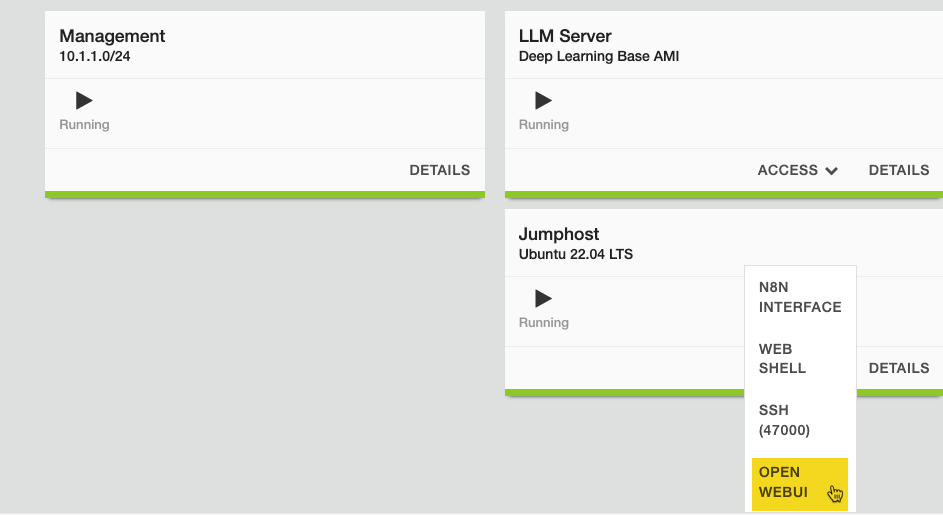
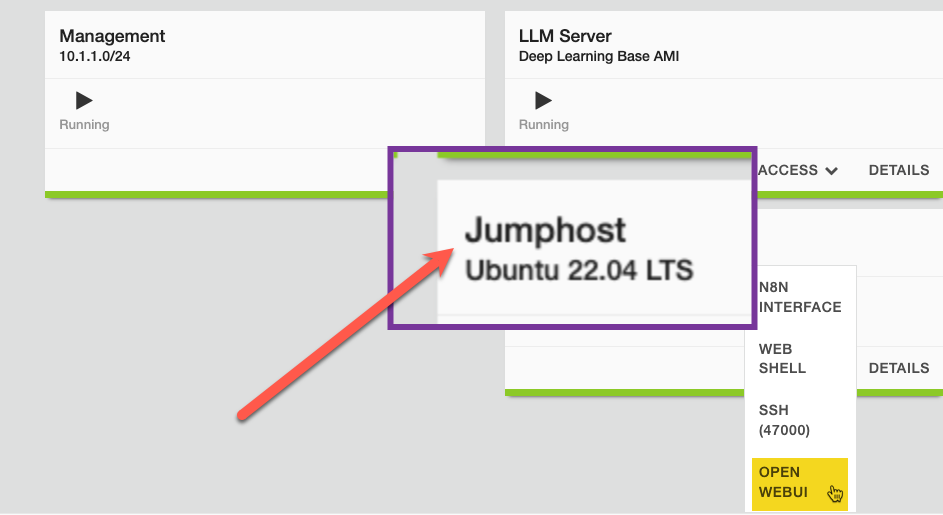
Merge pull request #11 from f5devcentral/rahm.post_labday
Post-event feedback updates

Pull request: Post-event feedback updates

Changed region(s): [[0.246, 0.2796, 0.8303, 0.8388]]

diff --git a/docs/class1/module3/lab2.rst b/docs/class1/module3/lab2.rst
@@ -28,8 +28,18 @@ Steps
 
    .. image:: images/00_n8n_Interface.png
 
-#. Enter account details and click **Next**. Make sure to use a real email address to get your license key, and
-   check your junk folder if you don't get it quickly.
+.. note::
+
+    If you get a 500 error that the target is unreachable, kill the container in the webshell and start it again
+    with the command in step 2 of the previous lab in this module.
+
+#. Enter account details and click **Next**.
+
+    .. warning::
+
+        Make sure to use a real email address to get your license key, and check your junk folder if
+        you don't get it quickly.
+
 
    .. image:: images/01_owner_account.png
 

diff --git a/docs/index.rst b/docs/index.rst
@@ -1,17 +1,17 @@
-F5 Agility Labs Getting Started Doc
-===================================
+F5 AppWorld Labs Getting Started Doc
+====================================
 
-Welcome to the |classbold| for F5 Agility |year|
+Welcome to the |classbold| for F5 AppWorld |year|
 
 .. attention::
-   The Agility team is using this repo to document our "read-the-docs" process.
+   The AppWorld team is using this repo to document our "read-the-docs" process.
 
 |repoinfo|
 
 .. note::
-   Each Agility lab is typically broken down by "Class" --> "Module" --> "Lab".
+   Each AppWorld lab is typically broken down by "Class" --> "Module" --> "Lab".
    Each section uses "toctree" to create the index and reference the content.
-   Using this template should give the contributer several getting-started
+   Using this template should give the contributor several getting-started
    RST examples.
 
 .. toctree::

diff --git a/docs/class1/module2/lab2.rst b/docs/class1/module2/lab2.rst
@@ -75,7 +75,11 @@ Jumphost and select **WEB SHELL** as shown in the image below.
     cd /root/fabric
     docker build -t fabric .
 
-4. This will take a few minutes. After the build completes, **create and run a new container**. This
+.. note::
+
+    This will take several minutes.
+
+4. After the build completes, **create and run a new container**. This
 will dump you into the bash shell of the container.
 
 .. code-block:: bash

diff --git a/docs/class1/module4/lab2.rst b/docs/class1/module4/lab2.rst
@@ -44,14 +44,14 @@ Review the Modelfile for the retail assistant below.
 
 You can see how the model has been instructed to only be a retain assistant. Let's see how effective it is!
 
-In your deployment, click on the **Components** tab, and under **Systems**, click **Access** on the
-LLM Server and select first the **OPEN WEBUI PROTECTED** and then **OPEN WEBUI UNPROTECTED** as shown in the
+In your deployment, click on the Components tab, and under Systems, click Access on the
+**LLM Server** and select **AIGW-PROTECTED** and then **AIGW-UNPROTECTED** as shown in the
 images below.
 
 .. image:: images/01_llmserver_protected_interface.png
 .. image:: images/02_llmserver_unprotected_interface.png
 
-You should have two browser windows now with the Open WebUI interface, one unprotected (red) and one protected
+You should have two browser windows now with custom Open WebUI interfaces, one unprotected (red) and one protected
 (green). I've placed them side by side and recommend you do the same.
 
 .. image:: images/03_llmserver_openwebui_windows.png

diff --git a/docs/class1/module1/lab2.rst b/docs/class1/module1/lab2.rst
@@ -45,7 +45,7 @@ The output should resemble this:
     writing manifest
     success
 
-2. Let's check to see if our models are indeed installed locally instead of within the container.
+2. Let's make sure your models are installed in the docker volume instead of within the container.
 
 .. code-block:: bash
 